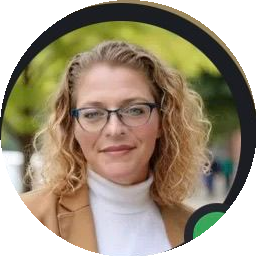
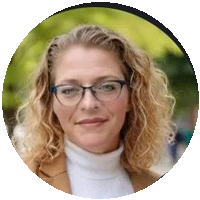
fix: Misty photo retight crop (no dark ring), force 44px via inline style on all testimonial photos

diff --git a/collab-ai-butler/index.html b/collab-ai-butler/index.html
@@ -5,7 +5,7 @@
   <meta name="viewport" content="width=device-width, initial-scale=1.0" />
   <title>AskDwell — AI Property Agent</title>
   <meta name="description" content="AskDwell is your AI property agent — handles tenant inquiries, maintenance, leasing leads, and daily ops 24/7, automatically." />
-  <link rel="stylesheet" href="style.css?v=20260529" />
+  <link rel="stylesheet" href="style.css?v=20260529b" />
   <link href="https://fonts.googleapis.com/css2?family=Inter:wght@300;400;500;600;700;800;900&display=swap" rel="stylesheet" />
 </head>
 <body>
@@ -287,7 +287,7 @@
           <div class="testimonial-stars">★★★★★</div>
           <p class="testimonial-text">"I used to spend half my day fielding tenant calls. AskDwell handles lease questions, maintenance scheduling, and rent status checks automatically. My team reclaimed 15+ hours per week — and tenants get instant answers even at 2AM."</p>
           <div class="testimonial-author">
-            <img src="misty-branch.png" alt="Misty Branch" class="testimonial-photo"/>
+            <img src="misty-branch.png" alt="Misty Branch" width="44" height="44" style="width:44px;height:44px;border-radius:50%;object-fit:cover;flex-shrink:0;" class="testimonial-photo"/>
             <div>
               <strong>Misty Branch</strong>
               <span>Property Operations Manager, Collab Home</span>
@@ -300,7 +300,7 @@
           <div class="testimonial-stars">★★★★★</div>
           <p class="testimonial-text">"We piloted AskDwell across 3 properties before rolling it out portfolio-wide. Zero missed vendor appointments since we deployed. The maintenance scheduling and tenant communication automation is genuinely flawless."</p>
           <div class="testimonial-author">
-            <img src="https://cdn.prod.website-files.com/680617eb8dda01ba6e6b1623/680617eb8dda01ba6e6b1722_Aileen%20Lai2.png" alt="Aileen Lai" class="testimonial-photo"/>
+            <img src="https://cdn.prod.website-files.com/680617eb8dda01ba6e6b1623/680617eb8dda01ba6e6b1722_Aileen%20Lai2.png" alt="Aileen Lai" width="44" height="44" style="width:44px;height:44px;border-radius:50%;object-fit:cover;flex-shrink:0;" class="testimonial-photo"/>
             <div>
               <strong>Aileen Lai</strong>
               <span>CEO, Collab Home</span>